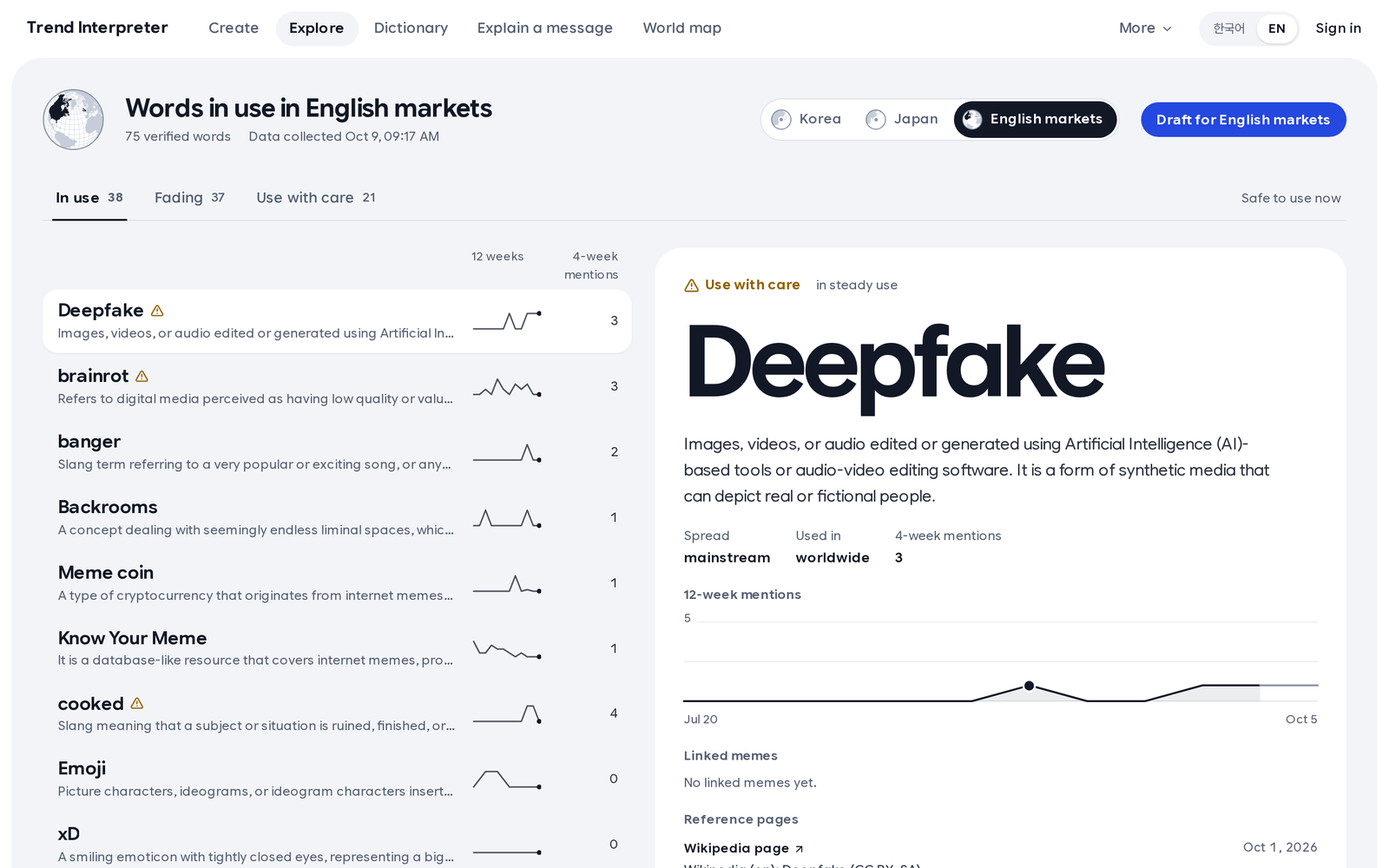
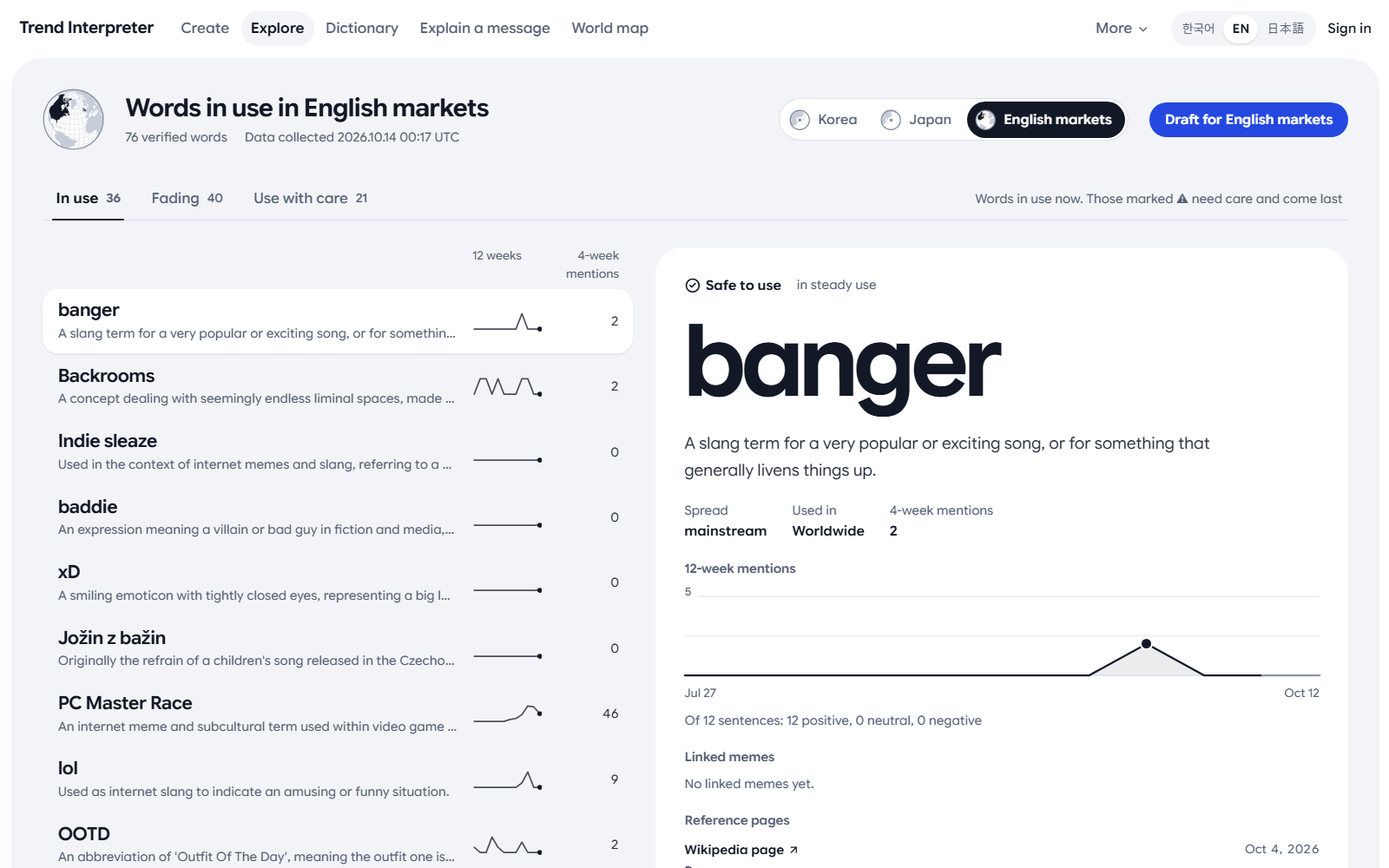
docs: 제출 직전 덱 검토 반영 – README·ARCHITECTURE를 코드와 맞추고 화면 사진·제출 문안 갱신
- README·README.kr·ARCHITECTURE: Gemini는 수집 서버까지 model_client.py의 Vertex AI로 부르고 ADK는 선택 사항, Search grounding은 코드만 있고 꺼져 있음, GEMINI_DAILY_BUDGET 로컬 기본값 120(.env.example), Gemini 하루·한 달 상한은 DB가 막고 청구 예산은 알림만. 심사용 계정은 제출 덱 링크 쪽에 있다고 고쳤다
- docs/images 화면 다섯 장을 10-14 수집 데이터로 다시 찍고(10-17) README 설명 날짜를 맞췄다
- 제출 양식 문안: 한 줄 소개·간략한 설명을 덱 표현에 맞추고(1015자, CRLF 1019자) 옛 "15쪽" 언급을 지웠다
- 덱 검토 문서에 팀 검토·심사위원 에이전트·독립 심사위원 검토의 반영 내역, 체크리스트에 18쪽 덱 기준을 기록했다

diff --git a/docs/대회/제출/제출-덱-검토-2026-10-17.md b/docs/대회/제출/제출-덱-검토-2026-10-17.md
@@ -104,6 +104,84 @@
 - **15쪽의 심사용 계정은 제출용에만 유지한다.** 이 로컬 PDF는 계정과 운영 주소가 들어 있으며 Git에서 추적되지 않는다. 현재 요청은 제출본 검토이므로 계정을 삭제하거나 변경하지 않았다. 공개 배포용 사본은 별도로 만든다.
 - **총 18쪽이다.** 18쪽은 정상적인 Thank you 이미지이며 삭제할 필요가 없다. 계획·체크리스트의 17쪽은 이 파일과 일치하지 않으므로 최종 제출본 확정 시 18쪽으로 맞춘다.
 
+## 반영 결과 (10-17, ejchoi)
+
+제출용 PDF(18쪽)와 Git 밖의 원본 PPT 두 벌(제출용·계정 없는 초안)에 반영했다. 고친 쪽은 모두 PowerPoint로 렌더링해 넘침이 없는지 확인했다.
+
+| 항목 | 반영 |
+| --- | --- |
+| 12쪽 GPU·일본 공백 | Now에서 GPU를 빼고 Later에 `Optional live Gemma re-checks, subject to GPU deployment and evaluation`으로 옮겼다. 일본은 `Improve recommendation fit across markets, especially Japan` |
+| 다국어 계획 → 새 13쪽 | 승제님 원래 의견("다국어 계획을 빼서 상세히")에 따라 12쪽에 섞지 않고 13쪽을 따로 만들었다. 제목 `Multilingual plan: close Japanese gaps, add native review, then one more market`. 위 띠에 지금 상태 세 층위(화면 한·영·일, 카피 시장 한국·일본·영어권, 수집 JAPAC 10개 시장과 global)를 구분하고, Now(일본어 공백)·Next(현지 화자 평가)·Later(시장 하나 시범) 카드에 이 문서의 구체화 내용과 완료 판단을 옮겼다. 바닥에 `Proposed plan; not yet validated with users.` 12쪽은 제품 전반 계획(`Next: better fit, human-labeled evaluation and team review`)으로 되돌리고 바닥에 같은 제안 표시 |
+| 9쪽 화면 | 10-17에 10-14 데이터로 다시 찍었다(Create·Explore·사전 항목·지도). Explore 첫 항목은 banger이고 Deepfake는 없다. README 화면 사진 다섯 장도 같은 것으로 바꿨다 |
+| 8쪽 요청 한도 | `20/min for recommendations, 10/min for generation`(`_recommend_limit`·`_generate_limit` 확인). 각주에 Cloud Run L4 GPU 가격 출처 |
+| 10쪽 지연·분모 | 지연 카드에 `round 4`, 어울림 카드에 `fitting picks 6/15 → 10/11`. `Picks that fit the product` → `Product-fit rate` |
+| 13쪽 경쟁사·가격 | 제목 `From social listening to evidence-backed meme decisions`, 본문은 자사 범위로 좁힘. Sprout는 공식 가격표(10-17 확인)대로 `Standard–Advanced: $199–$399 per seat a month, billed annually`. `≈ $0.01`은 `illustrative`, 각주에 7회 가정·재시도·인프라 제외 |
+| 2·15쪽 안전 표현 | `safe for a brand`·`safe to use now`·`a source behind every claim`을 `evidence-backed risk checks`·`every meme links to its evidence`로. 2쪽은 `human approval before copying` |
+| 문구·대소문자 표 | 3·4·5·6·7·9·11·12·14·15·16쪽(새 13쪽 추가 전 번호) 대부분 반영. 3쪽은 표 칸이 좁아 `Brand risk + evidence`·`Coverage per JAPAC market`·`Evidence per entry`로 줄였다. 16쪽 카드 제목은 한 줄에 맞춰 `Rules and people decide` |
+| 페이지별 출처 → 쪽마다 번호 미주 | 승제님 의견("마지막 출처 정리보다 각 페이지에 미주로")대로 마지막 출처 쪽을 빼고, 숫자 옆에 위첨자 번호를 달아 같은 쪽 바닥의 출처와 번호로 맞췄다. 번호는 쪽마다 1부터. 출처 이름을 누르면 원문이 열린다(논문은 DOI, 평가는 저장소의 EVALUATION.md·CSV). 대상: 2쪽(사례·논문·설문), 3쪽(제품 열 머리마다), 8쪽(Gemini·GPU 가격), 10·11쪽(팀 평가), 14쪽(시장·가격·조달·자체 추정), 15쪽(9차 평가·테스트) |
+| 14쪽 | 제목 `Deployed today; new markets follow with local evidence and human review`, `8 of 12 … in round 9`, `Cost caps and monitoring support operation during judging` |
+
+반영하지 않은 것:
+
+- 15쪽 `Demo Video Link (3 Minutes)`는 지정 템플릿 문구라 그대로 두었다.
+- `4 lines` → `four copy variants`는 화면 문구와 맞추려고 두었다.
+- 16쪽 보존 기간은 정책(해석 캐시 7일, 못 답한 질문·문구 본문 30일)에 맞춰 `Pasted text is cached for 7 days; unanswered questions and copy text are deleted after 30.`로 썼다.
+
+같은 표현을 제출 양식 문안(한 줄 소개·간략한 설명 1005자)과 README 첫 문단에도 맞췄다.
+
+### 전체 검토 뒤 추가 정리 (10-17 밤, ejchoi)
+
+심사 배점(기술·생성형 AI 40, 문제·영향 25, 혁신 25, UX 10)으로 덱 전체를 다시 읽고 고쳤다.
+
+| 항목 | 반영 |
+| --- | --- |
+| 실제 결과 예시 | 2쪽의 겹치던 카드 세 개(Create·Approve·Check) 대신 운영에서 10-17에 한 번 실행한 만들기 결과 화면을 넣었다(제품 "Summer-only iced brown sugar latte", 영어권 칸 – 76개 중 규칙을 통과한 banger, 고른 이유·빠진 후보, 4줄 카피와 No issues·Used as meant). Gemini 호출 약 7회 |
+| 심사 순서 | 링크 쪽 아래의 Brief description 상자(양식 칸과 중복)를 빼고 "Try it as a judge – about one minute" 4단계를 넣었다. 책임 있는 AI 쪽은 링크 쪽 앞(16쪽)으로 옮겨 템플릿 순서(링크 → 감사)를 지켰다 |
+| 한계 공개 | 16쪽 세 번째 카드를 Known limits로: 검증 7,651개 중 6,708개 리스크 근거 부족, 사람 검토는 검증된 뜻의 약 1.6%(107건), 평가는 AI 초안을 한 사람이 검토, 유료 사용자 시험 없음(EVALUATION.md, 10-10 데이터) |
+| 규모 숫자 | 15쪽 Feasibility에 사전 규모(수집 11,292개, 검증 7,651개, 사람이 승인한 뜻 121개, 10-10 데이터) |
+| 작은 정리 | 8쪽 `≈ $15 per 10,000 calls` → `≈ $0.01 per 3-market draft`, 6쪽 배포하지 않은 GPU VM 상자·화살표 삭제, 14쪽 작은 제목 `Business model`, 16쪽 `Responsible AI and limits` |
+
+### 심사위원·검증 에이전트 검토 반영 (10-18, ejchoi)
+
+심사위원 역할 에이전트(공식 배점으로 채점, 약 74/100)와 저장소 대조 에이전트의 지적을 반영했다.
+
+| 항목 | 반영 |
+| --- | --- |
+| 날짜·분모 | 15·16쪽 사전 숫자는 10-05 기준이라 미주를 `Team count, 5 Oct 2026 data; production data refreshed 14 Oct`로. 근거 부족은 운영 기준 `6,708 of 7,655`, 사람 검토는 `121 human-approved meanings, about 1.6% (107 review decisions)` |
+| 사람 검토 과장 | 6쪽 `Only verified, reviewed entries leave the server` → `Only rule-verified entries are published; human decisions carry over.` |
+| ADK | 6·7쪽과 양식 문안에서 선택 사항으로(`optional agent team that runs the same pipeline steps`) |
+| 비용 상한 | 8쪽 `monthly Cloud Run spend limit`(Terraform은 알림 예산뿐) → 코드가 막는 `Gemini daily call cap and US$20 monthly cap`, `at most 2 instances per service`. $0.0015는 base estimate, 할인가(2026-12-31까지) 표시. Cloud SQL 이전 각주는 뺐다 |
+| 근거 부족 용어 처리 | 16쪽에 `they rank lower and are blocked on sensitive topics`(pipeline/recommend.py: 판정 없는 말은 점수 −0.5, 민감 주제면 제외 – 자동 추천에서 아예 빠지지는 않는다) |
+| 10쪽 분모 | 제목 `…; 8 of 12 cases got a pick in round 9`, 방법 칸에 적합도 정의와 R4 15개·R9 11개 |
+| 범위 과장 | 1쪽 대상 `brand marketers and their agencies`, 2쪽 `each market`, 3쪽 USP `Copy for 3 markets; signals from 10 JAPAC markets`·표 `Market-level signals in JAPAC`, 15쪽 `Audiences in each target market` |
+| AI 역할 | 5쪽 제목 `Gemini reads and writes, rules pick and check, a person approves`, 7쪽 `Gemma labels evidence, Gemini researches and writes, rules and people decide`, 12쪽 `Gemini nuance check …` |
+| 문구 | 2쪽 5·18 → Gwangju anniversary, 4쪽 `X post length`, 11쪽 기록에 없는 `From round 5 no site name was picked` → `Removed entries can no longer be picked.`, 13쪽 영어 다듬기, 15쪽 나머지 4사례 설명·테스트 `pass` 삭제, 16쪽 `30 days`, 17쪽 `approve and override actions are disabled`, 모델 출력은 `assessment`로 통일(6쪽 상자는 칸이 좁아 `check`) |
+| README | 화면 사진 날짜를 10-14 수집·10-17 촬영으로 |
+
+반영하지 않은 것: 1쪽 역할의 `evaluation`(4~9차 검토는 지시현) – 사용자가 정한 문구라 그대로 두었다. README·ARCHITECTURE의 수집 서버 문장은 코드(`model_client.py`만 Gemini 클라이언트를 만들고 Vertex AI만 쓴다)에 맞춰 Vertex AI로 고쳤다(10-18 사용자 결정). 수집 서버의 실제 설정은 ktwoo가 확인한다. 14쪽 자사 가격 기준선은 팀 결정이 없어 넣지 않았다.
+
+### 마지막 재검토 반영 (10-18, ejchoi)
+
+심사위원 에이전트 두 번 더(약 76 → 78/100)와 저장소 대조 에이전트 두 번 더의 지적을 반영했다.
+
+| 항목 | 반영 |
+| --- | --- |
+| 15·16쪽 검증 수 | 16쪽을 `6,708 verified terms (about 88%)`로 – 15쪽 7,651과 충돌하지 않게. 121·107은 별개 수라 `121 human-approved meanings (about 1.6% of verified terms) and 107 review decisions` |
+| 15쪽 미주 | 본문 순서대로 ¹ 9차 평가, ² 10-05 사전 수, ³ 테스트 |
+| 10쪽 | 적합도 정의에 `the recommender can show several picks per case, Create writes with the top one (R4: 15 picks; R9: 11 in 8 cases)`, 지연은 `latency cards show round 4`(10차에 다시 쟀으므로 "re-measured 안 함"은 틀림). 위험 표현은 4쪽 정의에 맞춰 `“None”` |
+| 2쪽 | 결과 화면을 한 줄이 잘리지 않게 다시 자름. 설문 그래프는 Morning Consult 원문 기준(전체 Gen Z SNS 이용자 n = 1,002, "don't care" 미표시)으로 `Like brands joining trends`·`Dislike it`과 출처 줄 |
+| 8쪽 | 운영 Cloud Run 환경값(`GEMINI_MONTHLY_USD=15`, `REQUEST_GEMINI_DAILY=150`)대로 `US$15 monthly cap`. 할인가·3배 토큰 문장은 Gemini 가격 미주(¹)로. 수집·Gemma는 팀 서버와 Kaggle에서 돌아 클라우드 GPU 비용이 없다는 문장 |
+| 9쪽 | 화면 두 장(둘러보기·사전 항목)을 크게, 잘림 없이 |
+| 6·7쪽 | 그림에서 ADK를 빼고 7쪽에만 `optional agent team` |
+| 16쪽 | `Gemini and Gemma read, research and write; rules make the final listing, lifecycle and risk call.` |
+| 저장소 | README·README.kr: ADK 선택 사항, Vertex 클라이언트 설명, `GEMINI_DAILY_BUDGET` 로컬 기본값 120(`.env.example`), Gemini 하루·한 달 상한은 DB가 막고 청구 예산은 알림만. ARCHITECTURE 같은 내용. 제출 문안의 옛 "15쪽" 언급 삭제 |
+
+남은 것(덱 밖): `config.py` 주석의 "월 $20"은 운영 값 15와 다르다. 9쪽 화면의 사전 데이터 일부(baddie 뜻, Jožin z bažin·xD가 영어권 목록에 있음)는 데이터 품질 과제로 남긴다.
+
+### 독립 심사위원 검토 반영 (10-18, ejchoi)
+
+앞선 검토를 모르는 심사위원 세 명(클라우드 아키텍트·브랜드 마케터·교정 담당, 72~73점)의 지적을 두 번에 걸쳐 반영했다. 2쪽 결과 화면은 잘리지 않는 곳에서 다시 자르고 "the only one of 76"으로, 설문 그래프는 "Like / Dislike brands joining trends". 3쪽 우리 열의 "Brand risk + evidence"는 ○(판정 약 12%). 4쪽 수준 이름은 "None (safe to use) · Caution (use with care)…". 6쪽 단계 이름은 5쪽과 맞추고 Wiktionary 추가, Gemma는 "label risk evidence". 9쪽은 한국·사전 항목 화면과 "Who did what" 상자. 10쪽 제목은 "got full copy", 10차(운영, AI 채점) 한 줄과 p50 값 설명, 미주 번호는 숫자 뒤에서 낱말 뒤로. 11쪽 사용성은 EVALUATION.md 대표값대로 "2.0 → 2.5, round 4 → 9". 16·17쪽은 "judge login", 대괄호 없는 계정 줄, "no automatic listing", "before the copy is used". 남은 감점 요인(평가 12사례·한 사람 검토, 리스크 판정 12%, 사용자 검증 없음)은 문구가 아니라 실제 상태다.
+
 ## 계획 보관 확인 결과
 
 완료 상태였지만 상위 폴더에 남아 있던 발표 자료·영상 제작 계획과, 결정이 끝난 확인 요청을 archive로 옮겼다. 인수인계도 보관하고 남은 수정·실제 제출은 [10-18 최종 제출 계획](../../plans/2026-10-18-final-submission.md)으로 분리했다. 상위 목록과 archive 목록, 이동한 문서를 가리키는 상대 링크를 함께 고쳤다. 이전 archive 목록에서 표 밖에 붙어 있던 10-16 기록 네 줄도 별도 표로 정리하고, 빠져 있던 저장소 공개·Gemma 종료 기록을 추가했다.

diff --git a/README.md b/README.md
@@ -3,8 +3,8 @@
 English | [한국어](README.kr.md) | [First-time setup guide in Korean](docs/개발환경/처음-설치.md)
 
 **Trend Interpreter** turns one product into local copy for Korea, Japan and English-language markets, using
-memes that are in use there now and safe for a brand – with a source behind every claim and a person approving
-before anything goes out.
+memes in use there now – with evidence-backed brand-risk checks and a person approving before the copy can be
+used.
 
 Google Cloud AI Builder Cup 2026 (JAPAC) · Theme: **Media, Content & Digital Experiences** · Team **COPYBARA**
 
@@ -60,15 +60,15 @@ A marketer needs the meaning, where it lives, whether it is fading and where it 
 | **Trend briefing: a one-page market report** | **World map: memes per market and across borders** |
 | ![Trend briefing](docs/images/briefing.png) | ![World map](docs/images/map.png) |
 
-Screens of the deployed service in English, on data collected on 9 October 2026. Memes stay in their own script; explanations follow the interface language.
+Screens of the deployed service in English, on data collected on 14 October 2026 (captured 17 October). Memes stay in their own script; explanations follow the interface language.
 
 ## How AI is used
 
 Rules decide, models write. Listing, lifecycle, verification status, risk level, list filtering and
 recommendation ranking are deterministic code; a model never sets a status.
 
-- **Gemini on Vertex AI** (runtime service account, no API key, monthly spend cap): researches new terms with
-  grounding, reads trending short videos, turns a product photo or copy into a product brief, writes campaign
+- **Gemini on Vertex AI** (runtime service account, no API key, monthly spend cap): drafts meanings of new terms
+  from reference pages (Search grounding is coded but switched off), reads trending short videos, turns a product photo or copy into a product brief, writes campaign
   copy, summarises the briefing and judges whether copy uses a meme in the right sense.
 - **Gemma 4** (local or Kaggle, in the batch pipeline): drafts headword readings and meaning translations for newly
   listed terms, classifies evidence sentences for risk and audits dictionary meanings against their sources. A QLoRA fine-tune of the auditor
@@ -77,7 +77,7 @@ recommendation ranking are deterministic code; a model never sets a status.
 - **Agent Development Kit (ADK)**: an optional four-agent team (collector → investigator → lexicographer → publisher)
   calls the same deterministic pipeline steps as tools and writes a run report; the agents never set a status
   ([`agents/team.py`](apps/trend-api/src/trend_agents/agents/team.py)).
-- The collection server calls Gemini through the Gemini API (Google AI Studio key) under a daily call budget.
+- The collection server calls Gemini on Vertex AI through the same client ([`model_client.py`](apps/trend-api/src/trend_agents/model_client.py)) under a daily call budget.
 - Every model output is checked by rules before it is shown: a meaning needs a matching reference document,
   generated copy is re-checked for the chosen meme, profanity and length, and empty or note-like meanings are
   held back.
@@ -97,7 +97,7 @@ Where this shows in the deployed app:
   two buttons answer at once that the GPU is off. Gemma's batch work is shown in the model records on the reviewer
   status page.
 
-Judges can sign in with the read-only reviewer account given in the submission form: every admin screen opens, and
+Judges can sign in with the read-only reviewer account given on the links slide of the submitted deck: every admin screen opens, and
 approve, reject and risk decisions are refused.
 
 What we measured, with numbers and limits, and what is still open: [EVALUATION.md](EVALUATION.md).
@@ -203,10 +203,12 @@ Production and development builds reject out-of-date lockfiles.
 | `MODEL_PROVIDER` | `mock` | `vertex` |
 | `MODEL_REQUESTS_ENABLED` | `false` | `true` only while the service is meant to spend |
 | `GCP_PROJECT_ID`, `GOOGLE_CLOUD_LOCATION` | empty | Vertex AI project and location |
-| `GEMINI_DAILY_BUDGET` | `36` | daily call cap recorded in the database |
+| `GEMINI_DAILY_BUDGET` | `120` (`.env.example`) | daily pipeline call cap recorded in the database |
 
 Gemini clients are created only in `apps/trend-api/src/trend_agents/model_client.py`, through Vertex AI
-with the Cloud Run runtime service account. There is no Gemini API key anywhere in the codebase.
+with a service-account identity (the Cloud Run runtime service account in production); the optional ADK team uses
+ADK's built-in Vertex AI client. There is no Gemini API key anywhere in the codebase. Gemini daily and monthly caps
+are enforced in the database; the billing budget only sends alerts.
 Local Gemma runs through Ollama or an OpenAI-compatible server (`LOCAL_LLM_BASE_URL`); see
 [Gemma/vLLM](models/vllm/README.md). Collector keys (YouTube, Naver) belong only in
 `apps/trend-api/.env`; see `apps/trend-api/.env.example`.

diff --git a/README.kr.md b/README.kr.md
@@ -55,20 +55,20 @@ Google Cloud AI Builder Cup 2026 (JAPAC) · 테마 **Media, Content & Digital Ex
 | **트렌드 브리핑: 시장 보고서 한 장** | **세계 지도: 시장별·나라를 건넌 밈** |
 | ![트렌드 브리핑](docs/images/briefing.png) | ![세계 지도](docs/images/map.png) |
 
-배포본 화면이고, 자료는 2026년 10월 9일에 모은 것입니다(영어 화면).
+배포본 화면이고, 자료는 2026년 10월 14일에 모은 것입니다(10월 17일 촬영, 영어 화면).
 
 ## AI를 어떻게 쓰나요
 
 판정은 규칙, 서술은 모델입니다. 등재·생애주기·검증 상태·리스크 수준·목록 거르기·추천 순위는 결정론적 코드가 정하고,
 모델이 상태를 정하지 않습니다.
 
-- **Vertex AI의 Gemini** (런타임 service account, API key 없음, 월 금액 상한): 새 말의 grounding 조사, 인기 쇼츠 해석,
+- **Vertex AI의 Gemini** (런타임 service account, API key 없음, 월 금액 상한): 새 말의 뜻을 참고 문서로 조사(Search grounding은 코드만 있고 꺼져 있음), 인기 쇼츠 해석,
   제품 사진·문구의 제품 설명, 캠페인 카피 생성, 브리핑 요약, 카피가 밈을 뜻에 맞게 썼는지 의견.
 - **Gemma 4** (로컬·Kaggle, 배치 파이프라인): 새로 실린 말의 표제어 읽기·뜻 언어판 초안, 근거 문장의 리스크 분류, 사전 뜻을 출처와 대조하는 감사관.
   감사관 QLoRA 파인튜닝은 판정 형식은 배웠지만 판단이 나아졌다는 근거가 없어 기본 모델을 씁니다([EVALUATION.md](EVALUATION.md)).
-- **Agent Development Kit(ADK)**: 네 에이전트 팀(수집 → 조사 → 사전 편집 → 게시)이 같은 결정론 단계를 도구로 부르고 실행 보고서를 남깁니다.
+- **Agent Development Kit(ADK)**: 선택적으로 돌리는 네 에이전트 팀(수집 → 조사 → 사전 편집 → 게시)이 같은 결정론 단계를 도구로 부르고 실행 보고서를 남깁니다.
   에이전트는 상태를 정하지 않습니다([`agents/team.py`](apps/trend-api/src/trend_agents/agents/team.py)).
-- 수집 서버는 Gemini API(Google AI Studio 키)로 Gemini 를 하루 호출 예산 안에서 부릅니다.
+- 수집 서버도 같은 클라이언트([`model_client.py`](apps/trend-api/src/trend_agents/model_client.py))로 Vertex AI의 Gemini 를 하루 호출 예산 안에서 부릅니다.
 - 모델 결과는 화면에 나가기 전에 규칙이 검사합니다. 뜻은 맞는 참고 문서가 있어야 하고, 생성한 카피는 고른 밈·욕설·길이를
   다시 확인하며, 비었거나 메모 같은 뜻은 내보내지 않습니다.
 
@@ -84,7 +84,7 @@ Google Cloud AI Builder Cup 2026 (JAPAC) · 테마 **Media, Content & Digital Ex
   정의돼 있지만 비용 때문에 배포하지 않아, 두 버튼은 'GPU 꺼짐'을 바로 알립니다.
   Gemma 의 배치 작업 실적은 검수자 상태 화면의 모델 기록에 있습니다.
 
-심사위원은 제출 양식에 적은 읽기 전용 검수 계정으로 로그인할 수 있습니다. 관리 화면은 모두 열리고, 승인·제외·리스크 결정은 막힙니다.
+심사위원은 제출한 발표 자료의 링크 쪽에 적은 읽기 전용 검수 계정으로 로그인할 수 있습니다. 관리 화면은 모두 열리고, 승인·제외·리스크 결정은 막힙니다.
 
 무엇을 어떻게 쟀는지, 수치와 한계, 남은 과제는 [EVALUATION.md](EVALUATION.md)(영어)에 있습니다.
 
@@ -180,10 +180,12 @@ docker compose up -d --build
 | `MODEL_PROVIDER` | `mock` | `vertex` |
 | `MODEL_REQUESTS_ENABLED` | `false` | 비용을 쓸 때만 `true` |
 | `GCP_PROJECT_ID`, `GOOGLE_CLOUD_LOCATION` | 비움 | Vertex AI 프로젝트·위치 |
-| `GEMINI_DAILY_BUDGET` | `36` | DB에 기록하는 하루 호출 상한 |
+| `GEMINI_DAILY_BUDGET` | `120` (`.env.example`) | DB에 기록하는 파이프라인 하루 호출 상한 |
 
 Gemini 클라이언트는 `apps/trend-api/src/trend_agents/model_client.py` 한 곳에서만 만들며, API 키 대신
-Cloud Run 런타임 서비스 계정으로 Vertex AI에 접속합니다. 저장소 어디에도 Gemini API 키는 없습니다.
+서비스 계정(운영에서는 Cloud Run 런타임 서비스 계정)으로 Vertex AI에 접속합니다. 선택 사항인 ADK 팀은 ADK에 들어 있는
+Vertex AI 클라이언트를 씁니다. 저장소 어디에도 Gemini API 키는 없습니다. Gemini 하루·한 달 상한은 DB 장부로 막고,
+청구 예산은 알림만 보냅니다.
 로컬 Gemma는 Ollama 또는 OpenAI 호환 서버(`LOCAL_LLM_BASE_URL`)로 연결합니다.
 수집기 키(YouTube, Naver)는 `apps/trend-api/.env`에만 둡니다. 자세한 내용은 [AI 호출 제어](docs/운영/AI-호출-제어.md)를 보세요.
 

diff --git a/docs/대회/제출/제출-양식-문안.md b/docs/대회/제출/제출-양식-문안.md
@@ -2,7 +2,7 @@
 
 작성일 **2026-10-11** · 담당 **ejchoi** · 상태 **문안 확정(10-17) – 제품 주소·심사용 계정만 제출 때 채움** · 제출 **10-18**
 
-[제출 양식 설명](제출-양식-설명.md) · [공식 제출 기준](공식-제출-기준.md) · [제출 준비 체크리스트](제출-준비-체크리스트.md) · 발표 자료 15쪽과 같은 문장(발표 자료 PPTX는 10-17부터 Git 밖에서 공유)
+[제출 양식 설명](제출-양식-설명.md) · [공식 제출 기준](공식-제출-기준.md) · [제출 준비 체크리스트](제출-준비-체크리스트.md) · 발표 자료와 같은 표현(발표 자료 PPTX는 10-17부터 Git 밖에서 공유)
 
 제출 양식에 그대로 붙여 넣을 영어 문장이다. 숫자와 표현은 발표 자료·README·EVALUATION.md와 같게 맞췄다. 제품 주소는 저장소가 공개되므로 여기에 적지 않고 제출할 때 채운다. **10-16 결정(지시현): 운영 주소는 README·문서에 적지 않고 제출 양식에만 적는다.** 공개 저장소는 봇이 훑어 주소가 퍼지고, 그러면 하루 Gemini 요청 몫을 봇이 먼저 써서 심사위원이 막힐 수 있다. 심사위원은 제출 양식의 링크로 들어온다. 10-14에 README에 넣었던 주소는 10-16에 뺐다.
 
@@ -23,17 +23,17 @@
 ## 한 줄 소개
 
 ```text
-Trend Interpreter turns one product into local copy for Korea, Japan and English-language markets, using memes that are in use there now and safe for a brand – with a source behind every claim and a person approving before anything goes out.
+Trend Interpreter turns one product into local copy for Korea, Japan and English-language markets, using memes in use there now – with evidence-backed brand-risk checks and human approval before copying.
 ```
 
 ## 간략한 설명 (Firebase·Firestore·Cloud Run·Gemini 활용)
 
-양식 칸 'Brief Description of Your Solution (please include how you are leveraging Google services in your submission)'은 **1024자 제한**이다. 아래 문장은 1002자(줄바꿈을 CRLF로 세면 1006자)다(10-17). 숫자는 덱 10쪽(4~9차)과 같다. 덱 15쪽은 상자에 맞춘 다른 판이다.
+양식 칸 'Brief Description of Your Solution (please include how you are leveraging Google services in your submission)'은 **1024자 제한**이다. 아래 문장은 1015자(줄바꿈을 CRLF로 세면 1019자)다(10-17). 숫자는 덱 10쪽(4~9차)과 같다.
 
 ```text
-Trend Interpreter turns one product into local copy for Korea, Japan and English-language markets, with memes in use there now and safe for a brand. Rules pick one meme per market, Gemini writes, rules re-check every line, and a person approves before anything is copied. Every meme links to its risk level and sources.
+Trend Interpreter turns one product into local copy for Korea, Japan and English-language markets, using memes in use there now, with evidence-backed risk checks. Rules pick one meme per market, Gemini writes, rules re-check every line, and a person approves before copying. Every meme links to its risk level and sources.
 
-Google services: Gemini on Vertex AI turns a product photo or line into a brief and writes copy, a video script and a thumbnail plan per market in one structured call, then judges whether copy uses a meme as meant. In the batch, Gemini reads trending Shorts and runs Search-grounded research, Gemma 4 classifies evidence for risk and drafts translations, and ADK runs the agent team. Cloud Run hosts the web app, private API and jobs; Cloud SQL stores the versioned dictionary; Cloud Storage, Secret Manager and Cloud Monitoring support operations. Firebase is not used.
+Google services: Gemini on Vertex AI turns a product photo or line into a brief and writes copy, a video script and a thumbnail plan per market in one structured call, then judges whether copy uses a meme as meant. In the batch, Gemini reads trending Shorts and drafts meanings from sources, Gemma 4 classifies evidence for risk and drafts translations; optional ADK agents run the same steps. Cloud Run hosts the web app, private API and jobs; Cloud SQL stores the versioned dictionary; Cloud Storage, Secret Manager and Cloud Monitoring support operations. Firebase is not used.
 
 Results: on 12 test cases, picks that fit the product rose from 40% to 91%, with no risky meme shown as safe.
 ```

diff --git a/docs/대회/제출/제출-준비-체크리스트.md b/docs/대회/제출/제출-준비-체크리스트.md
@@ -38,7 +38,7 @@
 
 | 항목 | 상태 | 증거·담당 |
 | --- | --- | --- |
-| 지정 템플릿 deck 작성·영어 검수·PDF 변환 | 완료 | 17쪽 덱, 10-17 마무리: GPU VM 문장을 10-16 결정(배포하지 않음)에 맞추고 15쪽 저장소·영상 링크를 채움([발표 자료](../../plans/archive/ejchoi-submission-deck.md)). 제출용 PDF `artifacts/submission/COPYBARA-Trend-Interpreter-deck.pdf`(17쪽, 링크 세 개 포함, 커밋하지 않음). 숫자는 4~9차(10-16 결정). 양식 문안은 [제출 양식 문안](제출-양식-문안.md) |
+| 지정 템플릿 deck 작성·영어 검수·PDF 변환 | 완료 | 18쪽 덱. 10-17 마무리: GPU VM 문장을 10-16 결정(배포하지 않음)에 맞추고 15쪽 저장소·영상 링크를 채움, 1쪽 팀원 역할과 2쪽 실제 결과 화면, 13쪽 다국어 계획(승제님 의견), 16쪽 책임 있는 AI·한계, 17쪽 링크 아래 심사위원 테스트 4단계 추가, 마지막 출처 쪽 대신 쪽마다 번호 미주, [덱 검토](제출-덱-검토-2026-10-17.md) 반영(표현 완화·현재 상태·출처 링크·9쪽 화면 10-14 데이터로 교체). 제출용 PDF `artifacts/submission/COPYBARA-Trend-Interpreter-deck.pdf`(18쪽, 커밋하지 않음 – 운영 주소·심사용 계정 포함). 숫자는 4~9차(10-16 결정). 양식 문안은 [제출 양식 문안](제출-양식-문안.md) |
 | 3분 미만 공개 데모 영상 | 완료 | https://youtu.be/KHXkWvGHFx4 – 2분 53초, 일부 공개(10-17 업로드 확인, sng_j). [시나리오 v3](데모-영상-시나리오.md) |
 | 공개 GitHub 저장소와 영어 README | 완료 | `Sihyeon-Ji/trend-interpreter` 공개(10-16). README에 기능·AI·Google Cloud 사용·화면·영상 링크(10-17). 운영 주소는 README에 적지 않고 제출 양식에만(10-16 결정) |
 | 배포 링크 익명 브라우저 점검 | 진행 중 | 10-05 로그인 없이 점검: 공개 화면 모두 200, `/admin`·`/me`는 로그인으로 넘어감. **첫 요청 지연** – 사전 10.7초·메시지 해석 13.7초·브리핑 8.7초, 두 번째부터 0.2–0.8초. 심사 기간 최소 인스턴스·배포 직후 예열 필요. 10-05 오후 재측정(요청 기반 CPU 과금 뒤): 사전 첫 요청 21.3초, 나머지 화면 1.3초 이하. 시작 예열 스레드가 CPU를 못 받아서다. 사전 색인을 dashboard 단계가 board_cache에 저장하게 고쳤다(로컬 첫 요청 1.9초, 배포·dashboard 재계산 뒤 반영). 10-09 배포 뒤 재점검: 공개 화면 200, 없는 주소 404, 사용 자제·욕설 표제어 항목 주소 404, 사전 첫 요청 2초 남짓, 브리핑 첫 요청 30초(Gemini 요약, 두 번째부터 0.6초). 10-09 저녁 브리핑 요약을 board_cache에 두고 dashboard 단계가 기본 지역 한국어·영어 요약을 미리 만들게 고침(`59d9adf`) – 배포 뒤 재측정: 브리핑 0.6~0.8초. 메시지 해석 예시도 방문마다 11~19초였던 것을 늦게 온 재작성을 캐시하게 고쳐 0.6~1.5초(`39693a7`, [Plan 05](../../plans/archive/05-trend-cloud-run-deployment.md#2026-10-09-저녁-배포-세-번--첫-요청-지연-수정)) |

diff --git a/ARCHITECTURE.md b/ARCHITECTURE.md
@@ -15,7 +15,7 @@ Solid boxes are code and rules, dashed boxes are models, and the blue icon marks
 | Split | Heavy work (collection, classification, research, translation) runs in a batch on a separate team server. Google Cloud serves only verified, published data |
 | Who decides | Rules decide listing, lifecycle, risk level and ranking. Models draft and describe. A person approves copy and dictionary changes |
 | Request-time AI | Gemini on Vertex AI, through the runtime service account – no API key |
-| Batch AI | Gemma 4 (local or Kaggle) classifies evidence, drafts translations and audits meanings; Gemini (Gemini API key, daily budget) reads Shorts and runs Search-grounded research |
+| Batch AI | Gemma 4 (local or Kaggle) classifies evidence, drafts translations and audits meanings; Gemini on Vertex AI (same client, daily budget) reads Shorts and drafts meanings from reference pages (Search grounding is coded but switched off) |
 | Data | PostgreSQL everywhere: Docker Compose locally, Cloud SQL for PostgreSQL in production |
 | Region | Tokyo (`asia-northeast1`) |
 | Deployment | Pushing `release/gcp` runs the checks, then deploys a candidate revision and moves traffic only after it passes |
@@ -112,7 +112,7 @@ flowchart LR
 | `MODEL_PROVIDER` | `mock` | A Gemini client is created only when this is `vertex` |
 | `MODEL_REQUESTS_ENABLED` | `false` | No Gemini call is made unless this is `true` |
 | `GCP_PROJECT_ID`, `GOOGLE_CLOUD_LOCATION` | empty | Vertex AI project and location |
-| `GEMINI_DAILY_BUDGET` | `36` | Daily call cap, counted in the `gemini_calls` ledger table |
+| `GEMINI_DAILY_BUDGET` | `120` (`.env.example`) | Daily pipeline call cap, counted in the `gemini_calls` ledger table |
 | `LOCAL_LLM_BASE_URL` | empty | Ollama or an OpenAI-compatible server for Gemma |
 
 Request-time Gemini clients are created in one place, `src/trend_agents/model_client.py`. The pipeline goes through
@@ -193,7 +193,8 @@ flowchart LR
 - **Access.** GitHub Actions deploys through Workload Identity Federation; no service-account JSON key exists. Secret
   values stay out of Terraform state.
 - **Scaling and limits.** Web and API scale from 0 to 2 instances. Recommend and create have a per-instance request
-  limit, Gemini has a daily call cap, and Cloud Run has a monthly spend limit.
+  limit, and Gemini has daily call caps and a monthly spend cap enforced in the database; a billing budget
+  sends alerts but does not stop spending.
 - **Scheduled jobs.** A backup job dumps the database daily at 03:00 KST to a private bucket kept for 14 days. A
   maintenance job at 04:00 KST deletes expired user text and checks that the published data is not stale.
 - **Monitoring.** An uptime check watches the web app, and error alerts watch 5xx responses on web and API and failed
